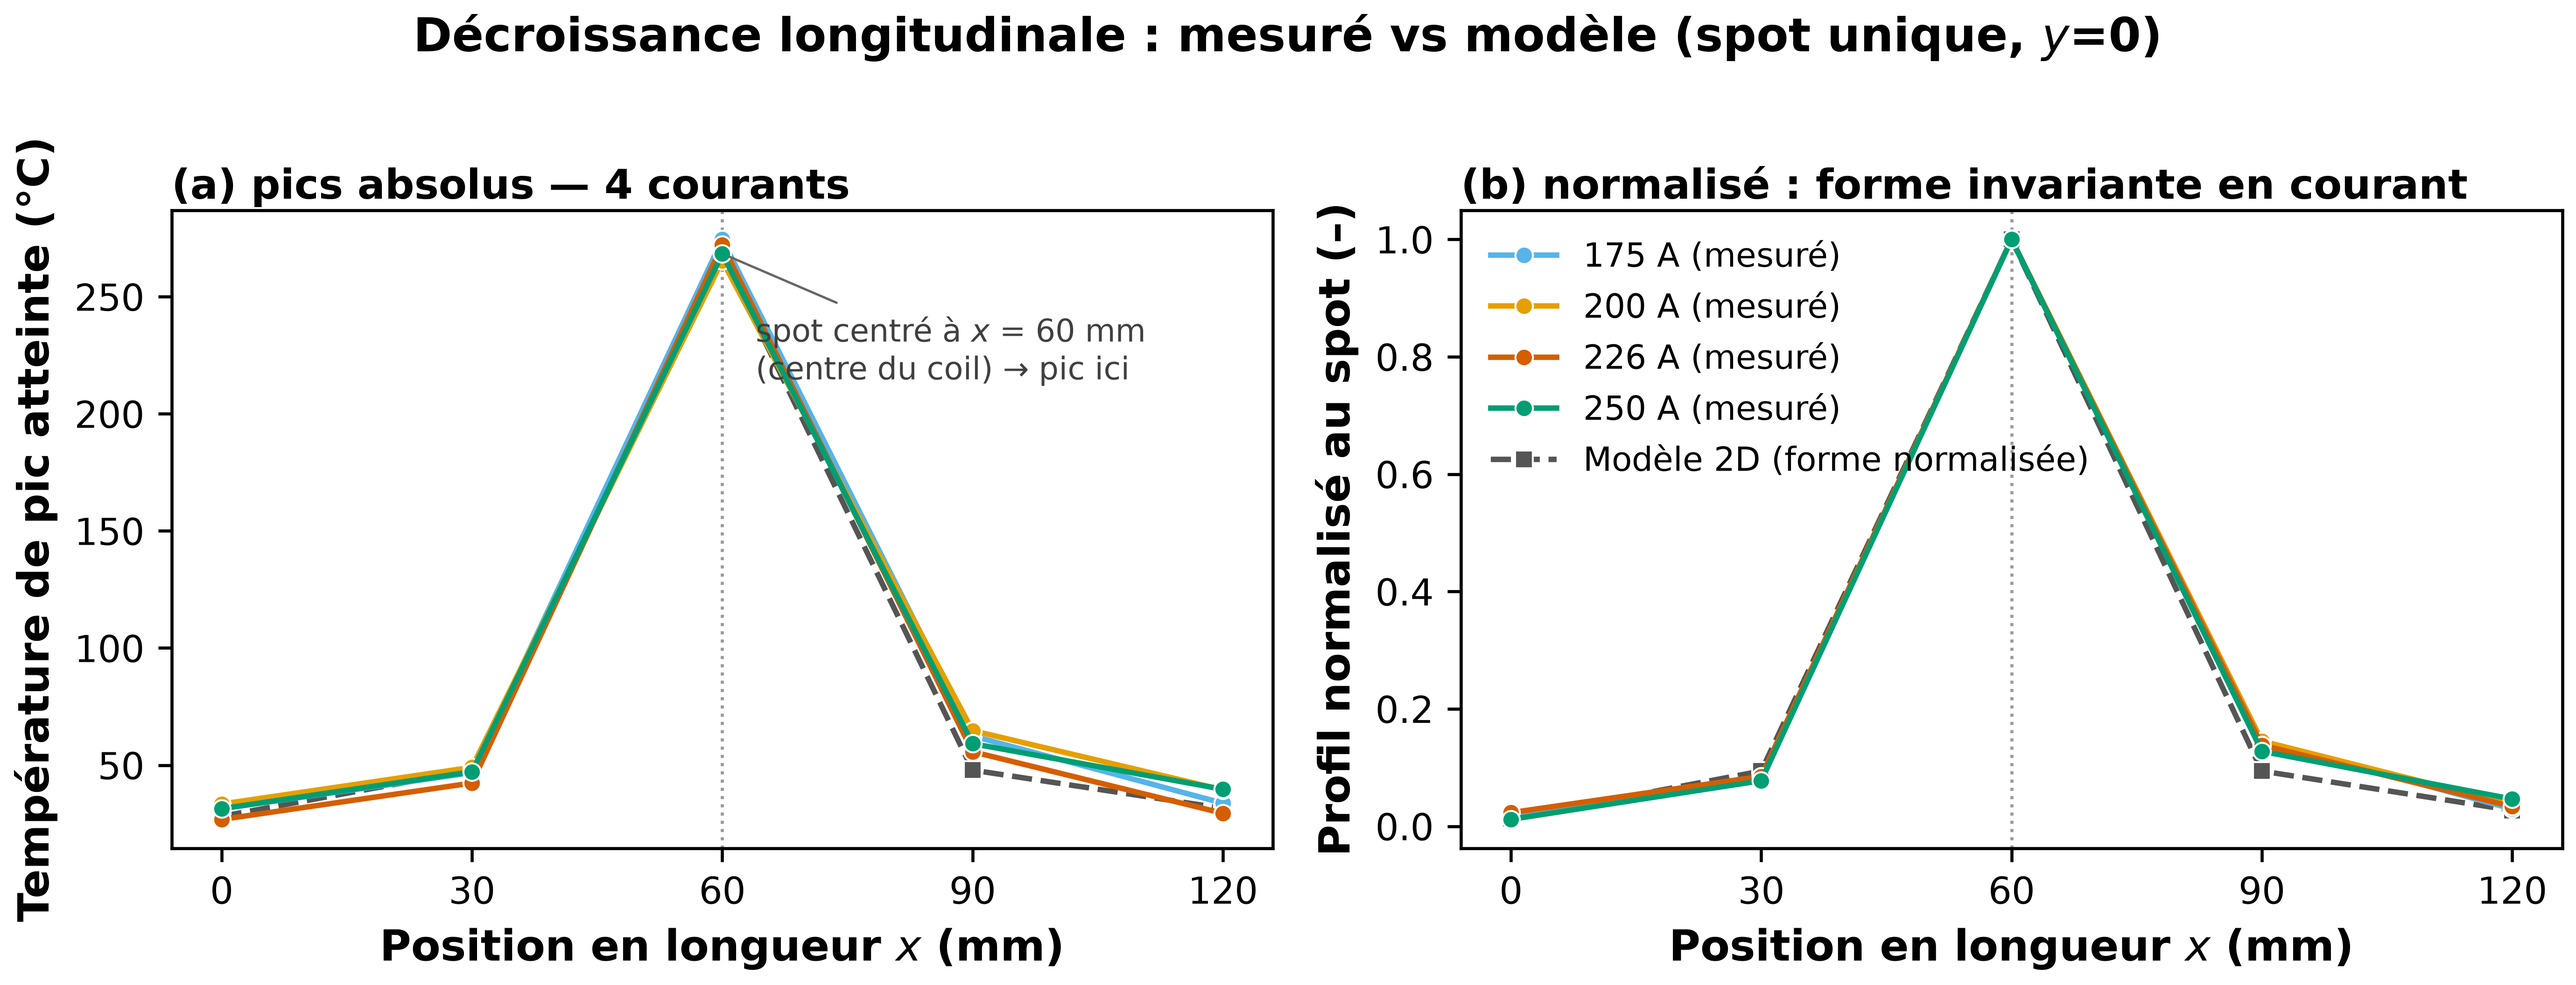
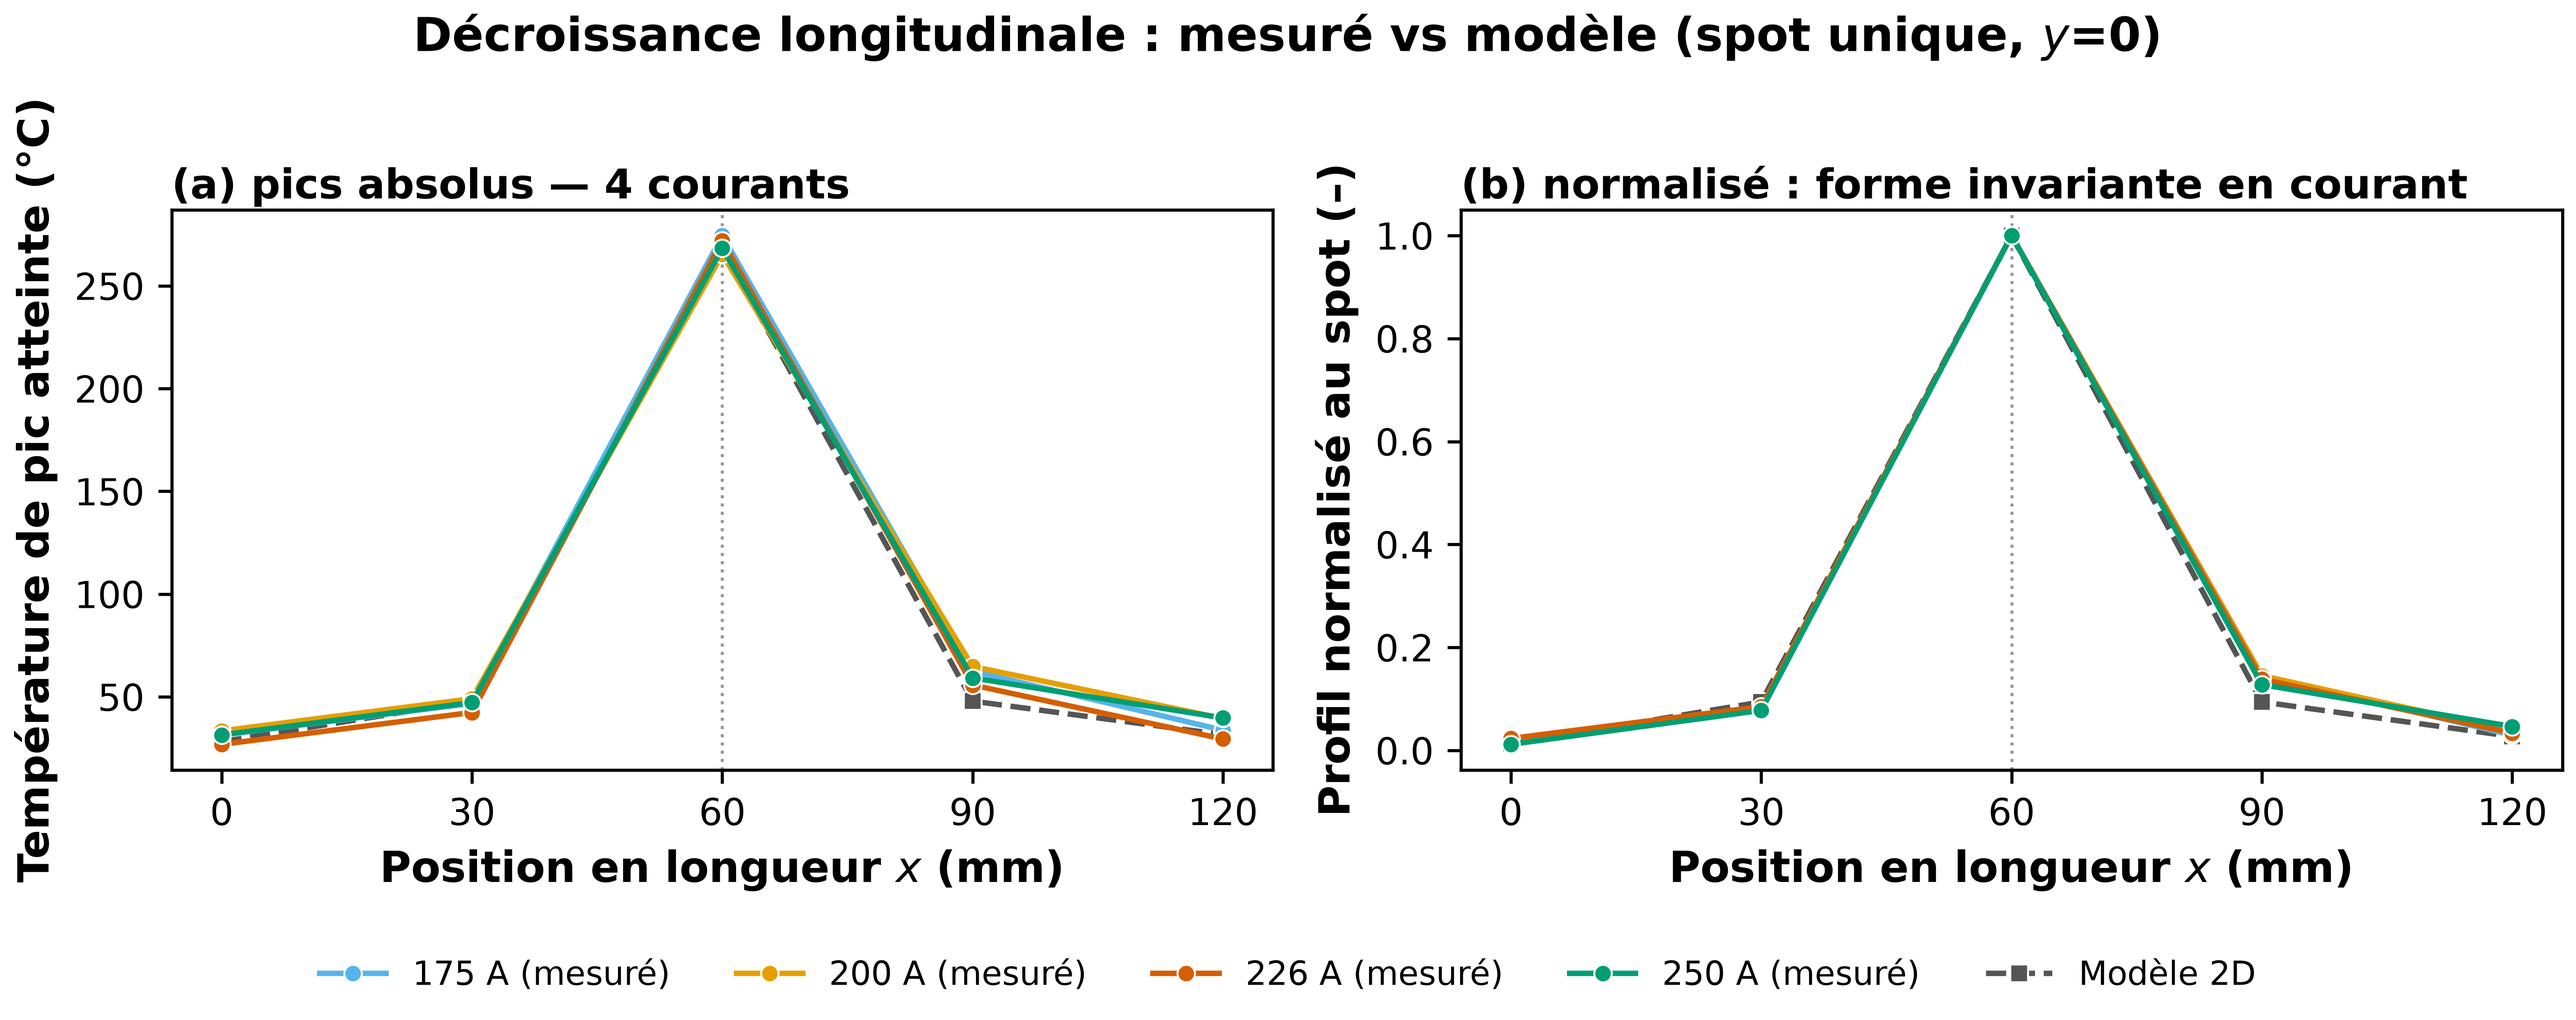
Figure longitudinale lisible : légende hors des courbes + texte spot retiré
fig_dissipation_monospot (gen_figures_elsevier) : suppression de l'annotation
"spot centré à x=60 mm" (panneau a) et remplacement de la légende interne du
panneau (b) par une légende partagée horizontale sous les deux panneaux, hors
des courbes. Présentation uniquement — données/modèle inchangés.

diff --git a/scripts/gen_figures_elsevier.py b/scripts/gen_figures_elsevier.py
@@ -487,26 +487,25 @@ def fig_dissipation_monospot():
     # Modèle : forme normalisée, remise à l'échelle absolue via le pic moyen mesuré
     dT_ref = float(np.mean(pics_dT))
     axa.plot(x, modele_norm * dT_ref + 25.0, "--s", color=C_MODEL, markeredgecolor="white",
-             markeredgewidth=0.5, label="Modèle 2D (forme × pic)", zorder=2)
+             markeredgewidth=0.5, label="Modèle 2D", zorder=2)
     axb.plot(x, modele_norm, "--s", color=C_MODEL, markeredgecolor="white",
-             markeredgewidth=0.5, label="Modèle 2D (forme normalisée)", zorder=2)
+             markeredgewidth=0.5, label="Modèle 2D", zorder=2)
 
     for ax in (axa, axb):
         ax.axvline(60, ls=":", color="0.6", lw=0.8, zorder=0)
         ax.set_xticks(x)
         ax.set_xlabel("Position en longueur $x$ (mm)")
-    axa.annotate("spot centré à $x$ = 60 mm\n(centre du coil) → pic ici",
-                 xy=(60, dT_ref + 25.0), xytext=(64, (dT_ref + 25.0) * 0.80),
-                 fontsize=8, color="0.25", ha="left",
-                 arrowprops=dict(arrowstyle="-", color="0.4", lw=0.6))
     axa.set_ylabel("Température de pic atteinte (°C)")
     axb.set_ylabel("Profil normalisé au spot (–)")
     panel_title(axa, "(a) pics absolus — 4 courants")
     panel_title(axb, "(b) normalisé : forme invariante en courant")
-    axb.legend(loc="upper left", ncol=1, frameon=False, fontsize=8.5)
+    # Légende partagée sous les deux panneaux (hors des courbes)
+    handles, labels = axb.get_legend_handles_labels()
+    fig.legend(handles, labels, loc="lower center", ncol=5, frameon=False,
+               fontsize=8.5, bbox_to_anchor=(0.5, -0.01))
     fig.suptitle("Décroissance longitudinale : mesuré vs modèle (spot unique, $y$=0)",
                  fontsize=12, fontweight="bold", y=1.02)
-    fig.tight_layout()
+    fig.tight_layout(rect=(0, 0.08, 1, 1))
     savefig(fig, "fig_dissipation_monospot.png")
 
 
